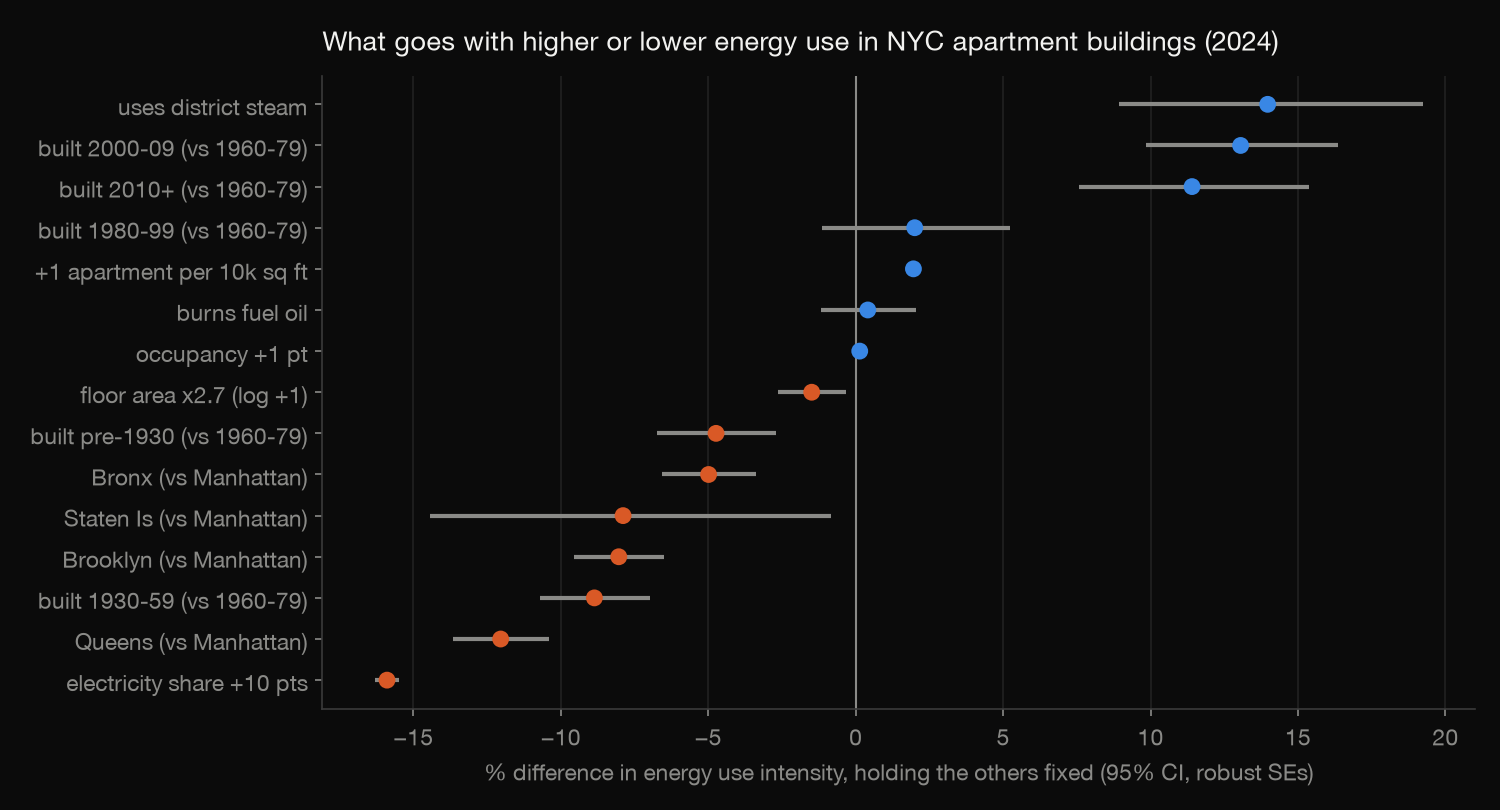
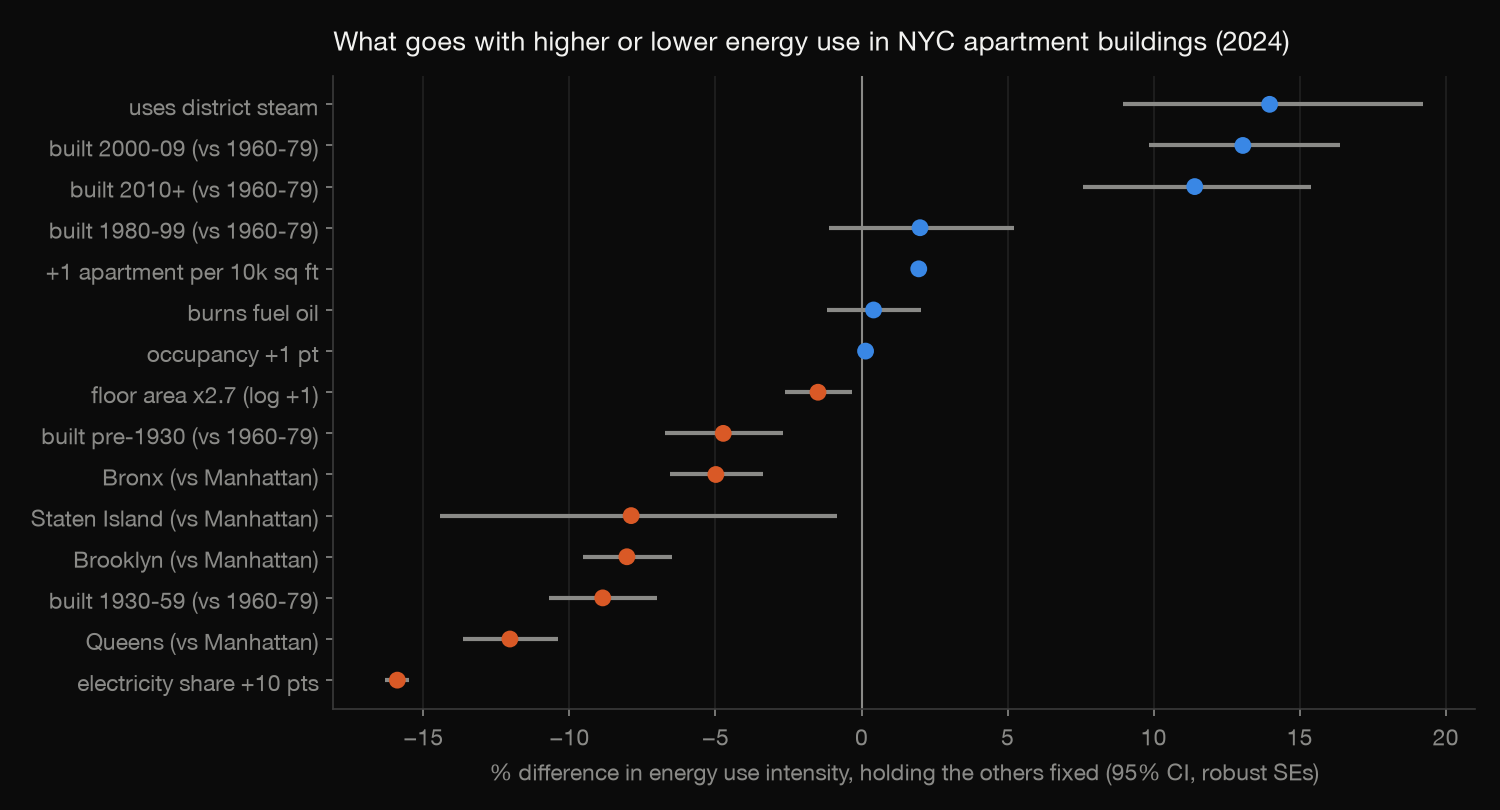
Charts: spell out Staten Island; headroom for the top label

diff --git a/charts.py b/charts.py
@@ -35,7 +35,7 @@ def label(term):
     if "era" in term:
         return "built " + term.split("T.")[1].rstrip("]") + " (vs 1960-79)"
     if "borough" in term:
-        return term.split("T.")[1].rstrip("]") + " (vs Manhattan)"
+        return term.split("T.")[1].rstrip("]").replace("Staten Is", "Staten Island") + " (vs Manhattan)"
     return NAMES.get(term, term)
 
 
@@ -96,6 +96,7 @@ def main():
     ax.bar(xs, g.values, color=BLUE, width=0.65)
     for i, (v, k) in enumerate(zip(g.values, cnt.values)):
         ax.text(i, v + 1, f"{v:.0f}", ha="center", color=INK, fontsize=9)
+    ax.set_ylim(0, g.max() * 1.12)
     ax.set_xlabel("share of the building's energy that is electricity")
     ax.set_ylabel("median kBtu per sq ft")
     ax.grid(axis="x", visible=False)
